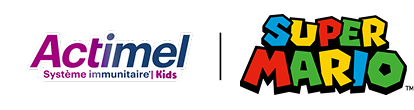
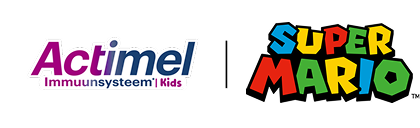
cambio a belgica

Changed region(s): [[0.5797, 0.1091, 1.0, 0.8727], [0.058, 0.2727, 0.4638, 0.7636], [0.5217, 0.3, 0.5507, 0.7364]]

diff --git a/index.html b/index.html
@@ -1,27 +1,26 @@
 <!DOCTYPE html>
 <html lang="en">
 <head>
-    <meta charset="UTF-8" />
-    <meta name="viewport" content="width=device-width, initial-scale=1.0" />
-    <title>Cooming soon</title>
+  <meta charset="UTF-8" />
+  <meta name="viewport" content="width=device-width, initial-scale=1.0" />
+  <title>Coming soon</title>
 
-    <style>
+  <style>
     html, body {
-        margin: 0;
-    padding: 0;
-    height: 100%;
-    display: flex;
-    flex-direction: column;
-    box-sizing: border-box;
+      margin: 0;
+      padding: 0;
+      min-height: 100dvh;
+      position: relative;
+      box-sizing: border-box;
     }
 
     .desktop, .mobile {
-        display: none;
+      display: none;
     }
 
     /* Desktop */
     @media (min-width: 768px) {
-    .desktop {
+      .desktop {
         display: block;
         position: fixed;
         top: 0;
@@ -29,18 +28,18 @@
         width: 100vw;
         height: 100vh;
         overflow: hidden;
-    }
+      }
 
-    .desktop img {
+      .desktop img {
         width: 100%;
         height: 100%;
         object-fit: cover;
-        }
+      }
     }
 
     /* Mobile */
     @media (max-width: 767px) {
-    body {
+      body {
         background-image: url('./bg-mario.png');
         background-size: cover;
         background-position: center;
@@ -48,61 +47,79 @@
         flex-direction: column;
         align-items: center;
         justify-content: flex-start;
-        min-height: 100vh;
-    }
+        min-height: 100dvh;
+      }
 
-    .mobile {
+      .mobile {
         display: flex;
         flex-direction: column;
         align-items: center;
         width: 100%;
         gap: 1rem;
         flex: 1;
-    }
+        padding-bottom: 200px; /* espacio para que no tape el fixed (ajustable) */
+        position: relative;
+        z-index: 1;
+      }
 
-    .mobile img {
+      .mobile img {
         max-width: 400px;
         height: auto;
         display: block;
-    }
+      }
 
-    .header{
+      .header {
         display: flex;
         justify-content: center;
-    }
+      }
 
-    .header-img{
+      .header-img {
         width: 50%;
         margin-top: 1rem;
-    }
+      }
 
-    .img-text{
+      .img-text {
         width: 100%;
         margin-top: 0rem;
-    }
+      }
 
-    .img-bottom {
-    width: 90%;
-    max-width: 400px;
-    background: radial-gradient(ellipse at center, rgba(255, 255, 255, 0.4) 0%, rgba(255, 255, 255, 0) 70%);
-    margin-top: auto;
-    filter: drop-shadow(0 0 30px rgba(255, 255, 255, 0.6));
+      .img-bottom-wrapper {
+        position: fixed;
+        bottom: 0;
+        left: 0;
+        width: 100%;
+        display: flex;
+        justify-content: center;
+        background: radial-gradient(ellipse at center, rgba(255,255,255,0.4), rgba(255,255,255,0) 70%);
+        filter: drop-shadow(0 0 30px rgba(255,255,255,0.6));
+        z-index: 0;
+        pointer-events: none;
+      }
+
+      .img-bottom {
+        width: 90%;
+        max-width: 400px;
+        height: auto;
+        display: block;
+      }
     }
-}
-    </style>
+  </style>
 </head>
 <body>
-    <div class="desktop">
-        <img src="./mario-desktop.png" alt="Fondo desktop" />
-    </div>
+  <div class="desktop">
+    <img src="./mario-desktop.png" alt="Fondo desktop" />
+  </div>
 
-    <div class="mobile">
-        <div class="header">
-            <img class="header-img" src="./header-img.png" alt="Header Mobile" />
-        </div>
-        <img src="./img1-mobile.png" alt="Imagen 1 Mobile" class="img-text"/>
-        <img src="./img2-mobile.png" alt="Imagen 2 Mobile" class="img-bottom" />
+  <div class="mobile">
+    <div class="header">
+      <img class="header-img" src="./header-img.png" alt="Header Mobile" />
     </div>
+    <img src="./img1-mobile.png" alt="Imagen 1 Mobile" class="img-text"/>
+  </div>
+
+  <!-- Botellas pegadas abajo con halo sin cortes -->
+  <div class="img-bottom-wrapper">
+    <img src="./img2-mobile.png" alt="Imagen 2 Mobile" class="img-bottom" />
+  </div>
 </body>
 </html>
-
